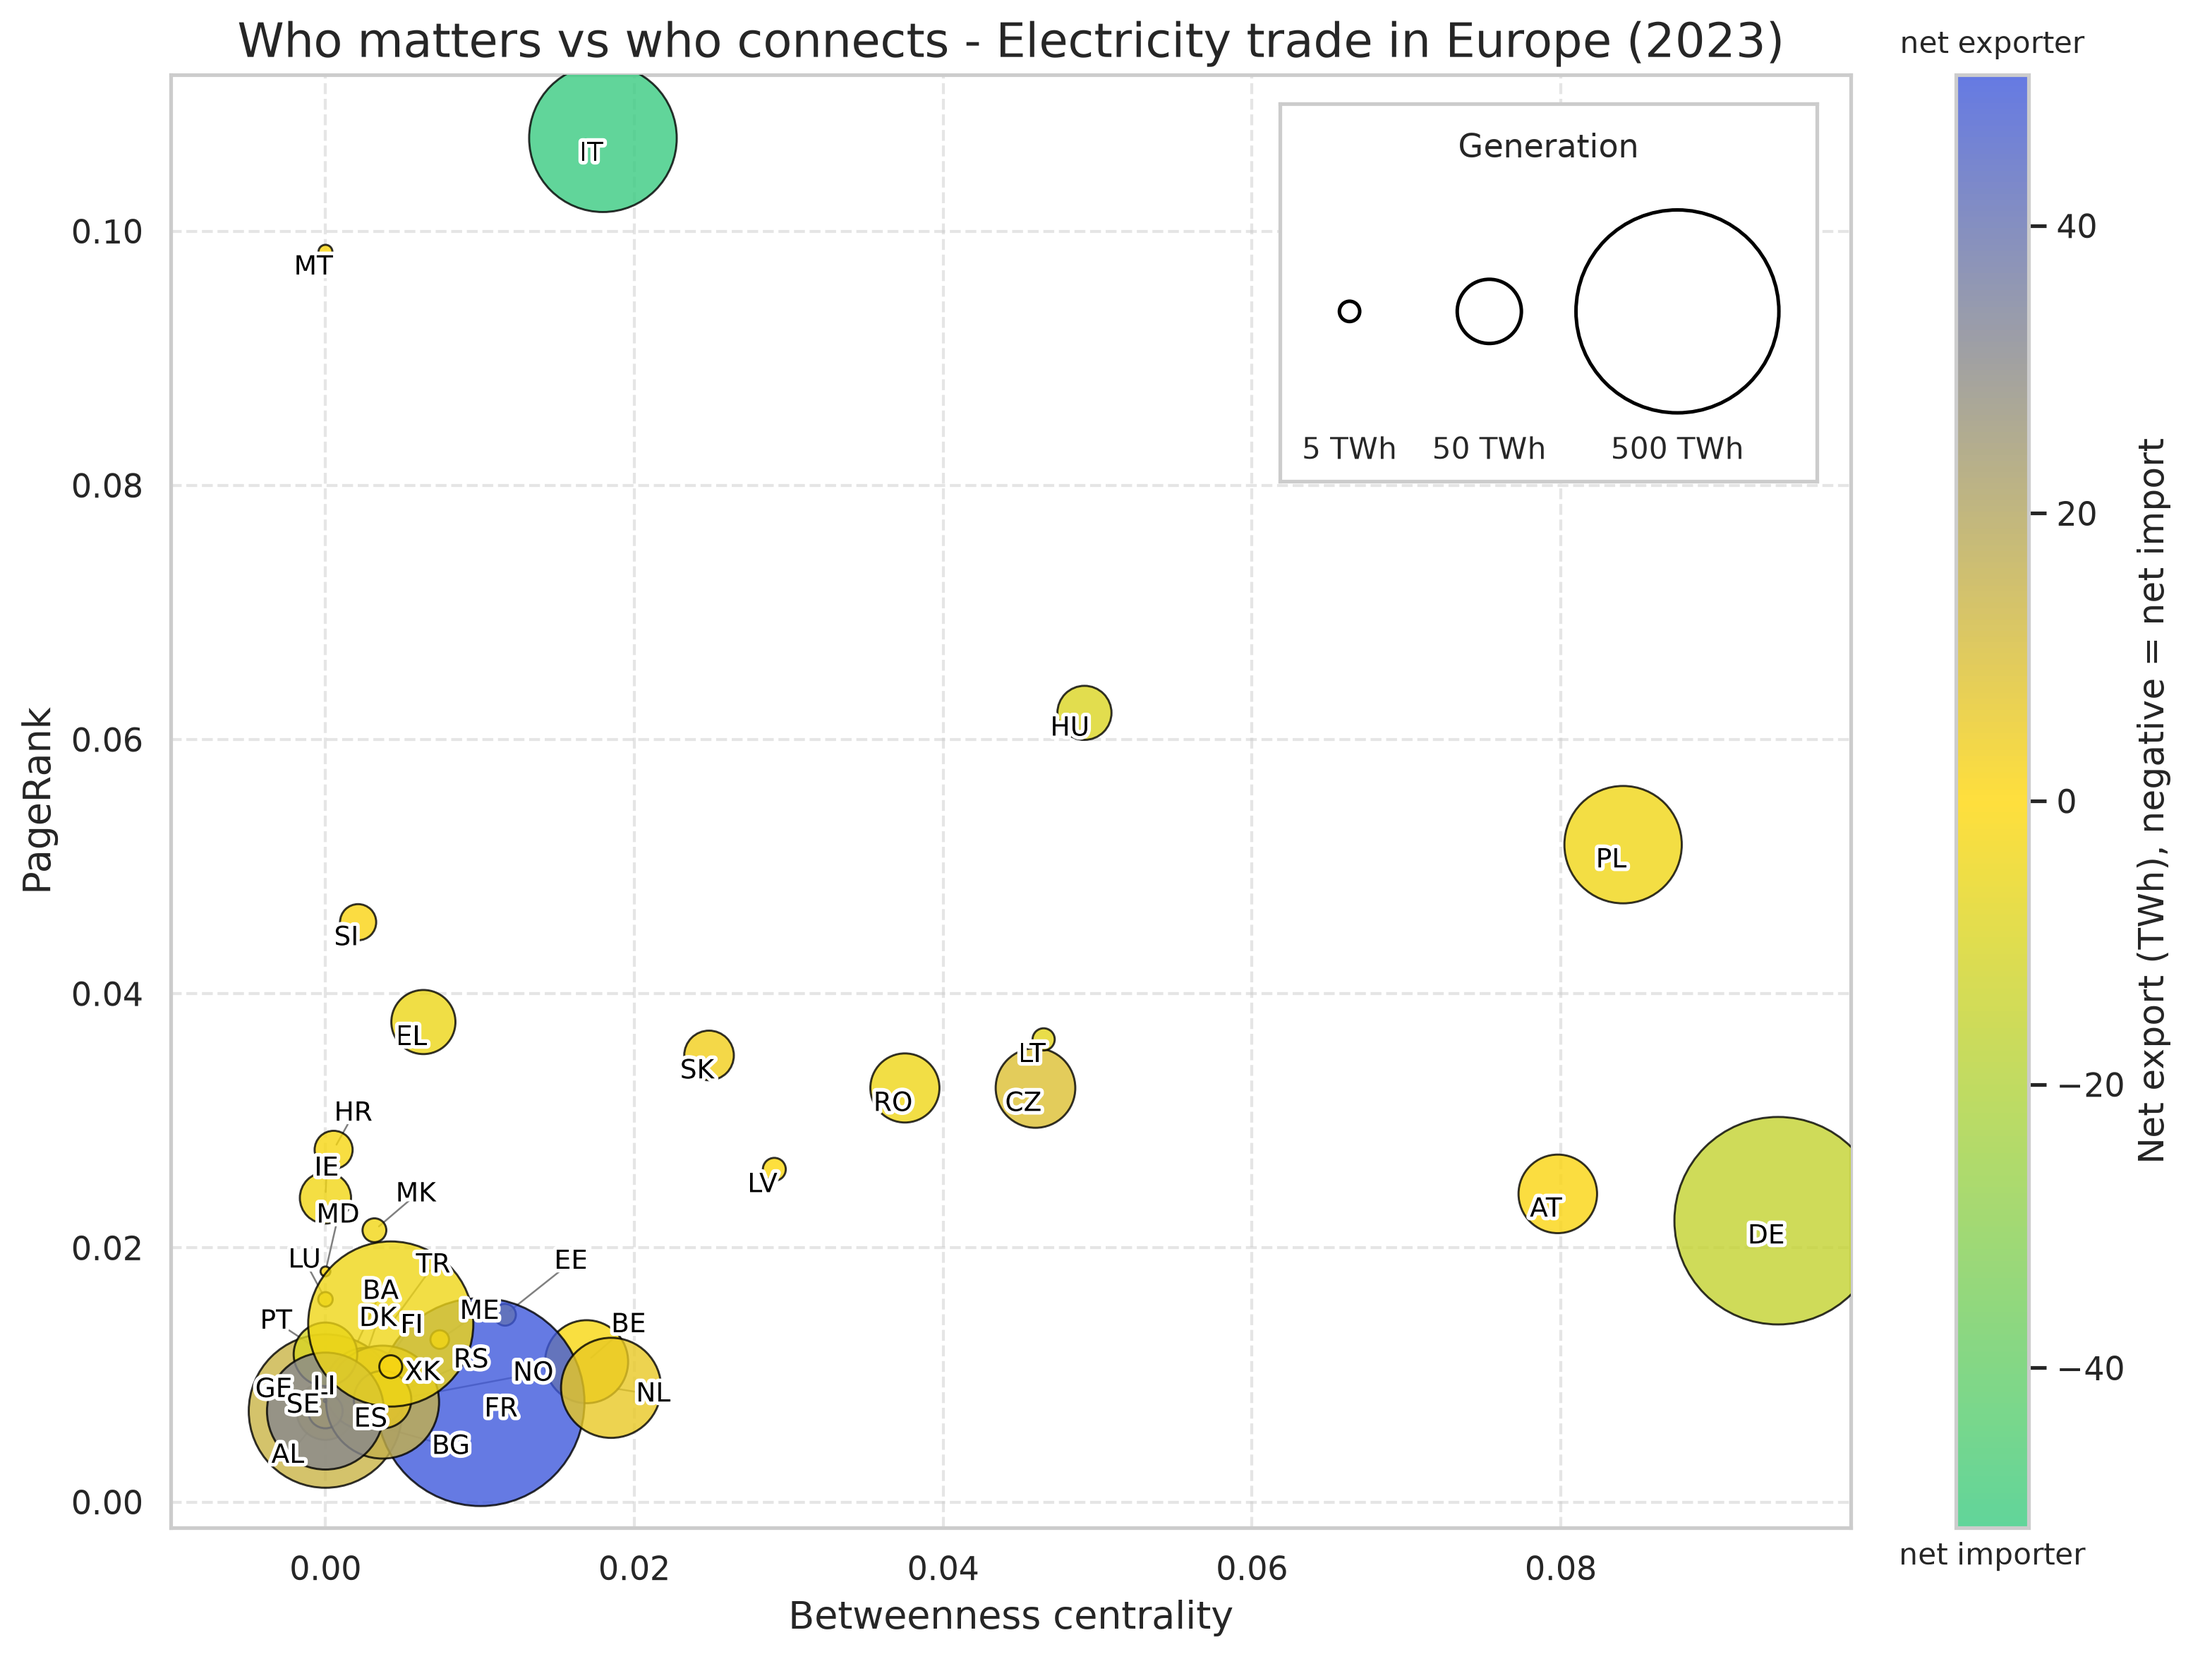
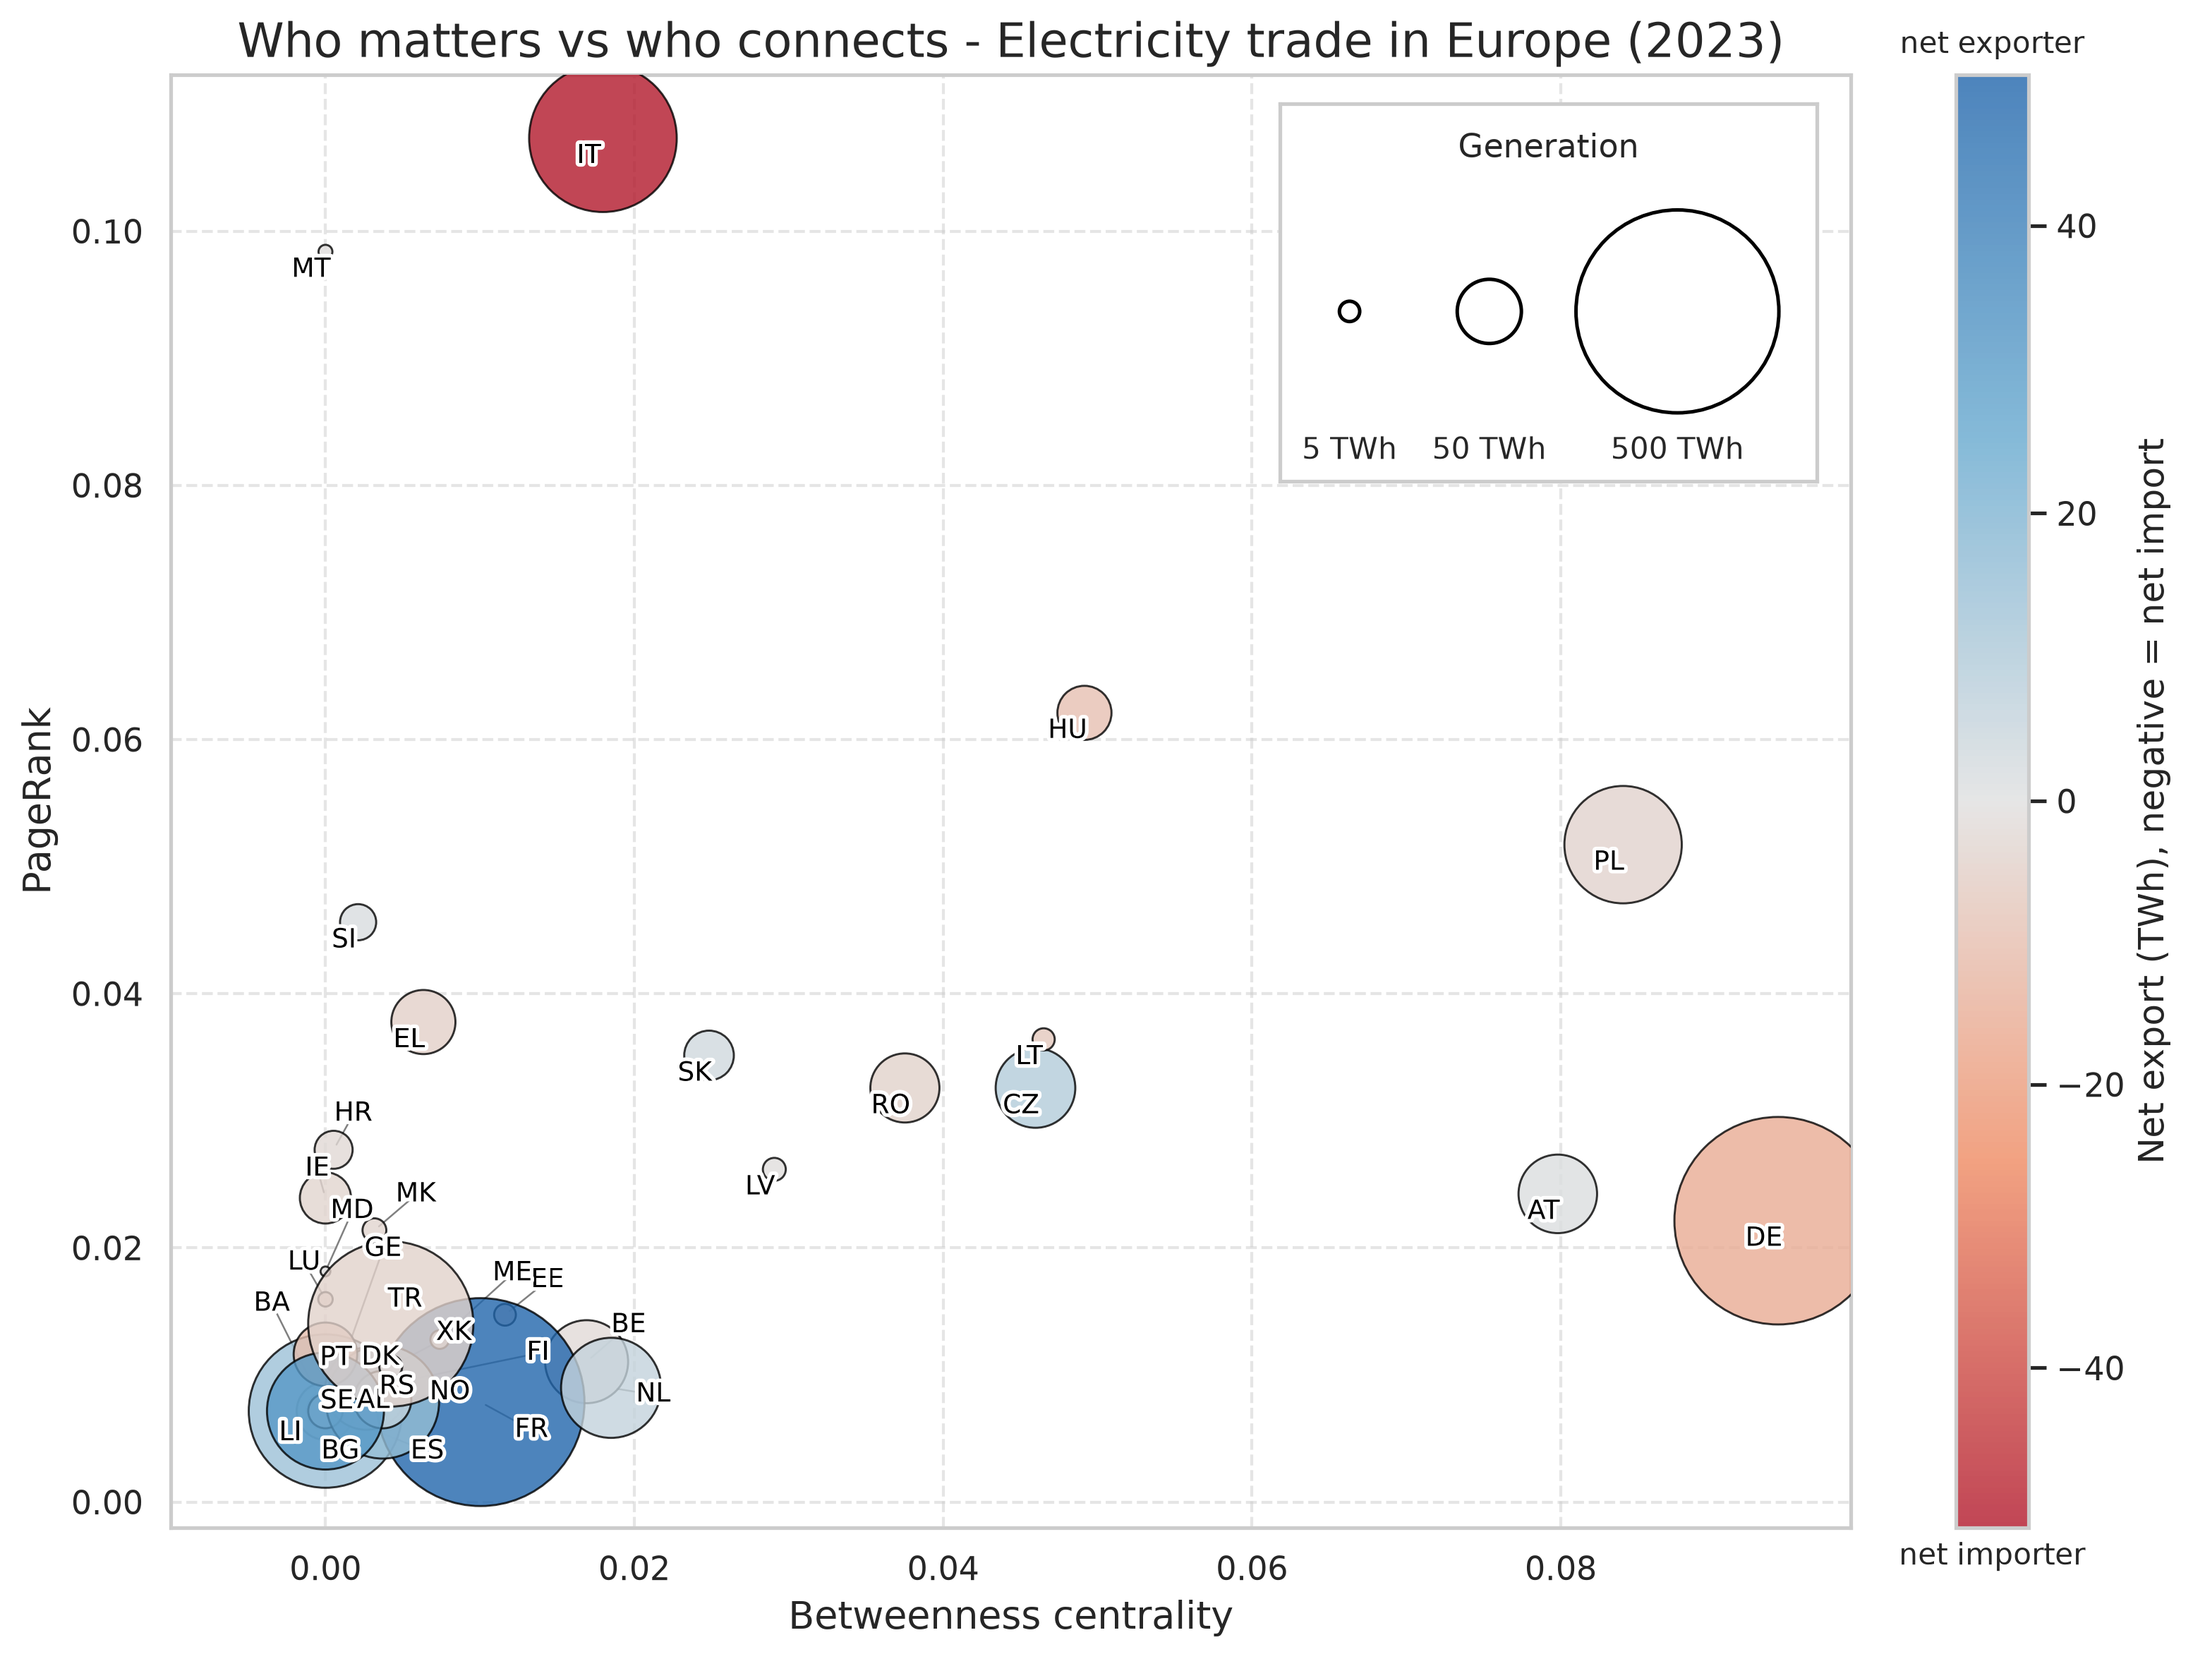
Use red for net importers and blue for net exporters in the electricity scatter

diff --git a/course-5-social-network-analysis/electricity_pagerank/scripts/network_pagerank_analysis.py b/course-5-social-network-analysis/electricity_pagerank/scripts/network_pagerank_analysis.py
@@ -243,9 +243,9 @@ def main(argv: list[str] | None = None) -> int:
     plt.rcParams['font.family'] = 'DejaVu Sans'
     plt.rcParams['font.weight'] = 'light'
 
-    # Diverging colormap for net export, green for importers, yellow around zero, blue for exporters
-    brand_colors = ['#3ACB81', '#FFD70C', '#3F59DC']
-    brand_cmap = LinearSegmentedColormap.from_list('brand_cmap', brand_colors, N=256)
+    # Diverging colormap for net export, red for importers, light gray around zero, blue for exporters
+    net_export_colors = ['#B2182B', '#EF8A62', '#E0E0E0', '#67A9CF', '#2166AC']
+    net_export_cmap = LinearSegmentedColormap.from_list('net_export_cmap', net_export_colors, N=256)
 
     # Filter out countries with NaN generation_gwh
     plot_df = df_merged[df_merged['generation_gwh'].notna()].copy()
@@ -268,7 +268,7 @@ def main(argv: list[str] | None = None) -> int:
         plot_df['pagerank'],
         s=plot_df['generation_twh'] * size_scale,
         c=plot_df['net_export_twh'],
-        cmap=brand_cmap,
+        cmap=net_export_cmap,
         norm=norm,
         alpha=0.8,
         edgecolor='black',
